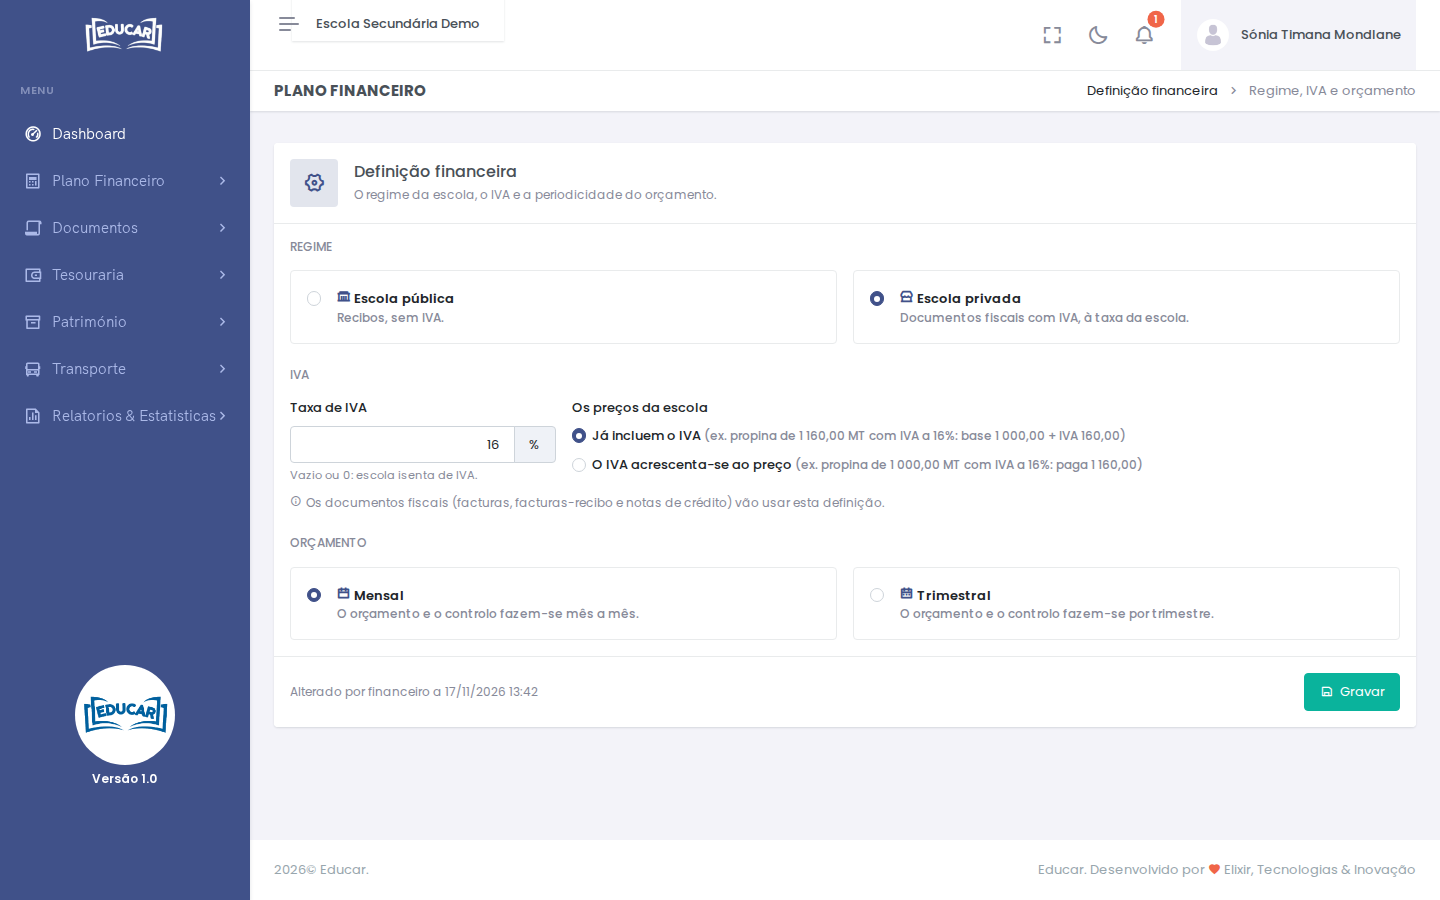
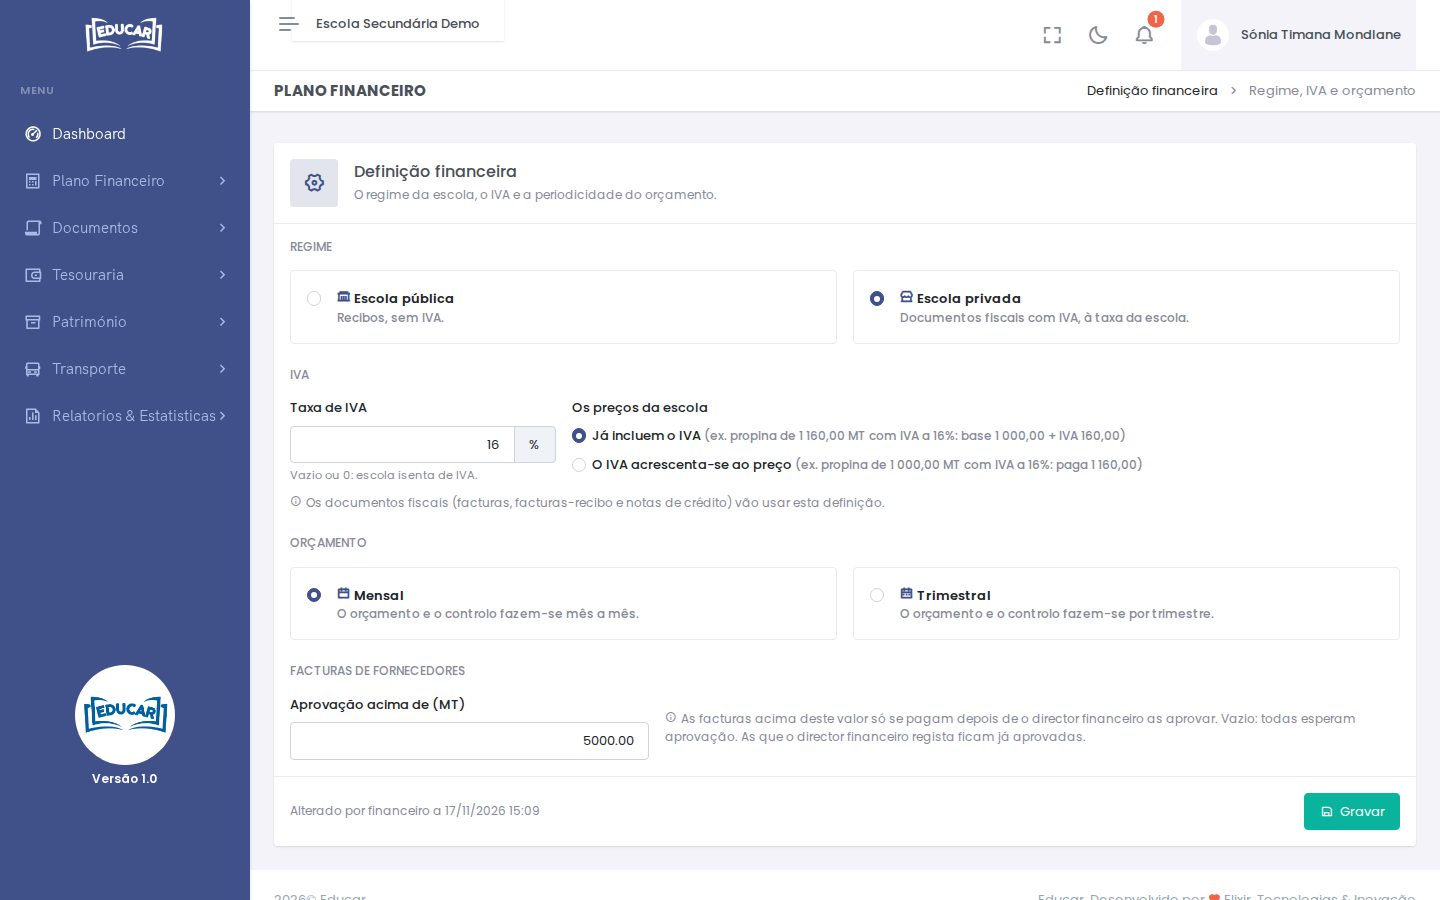
Tesouraria: Contas a pagar (facturas de fornecedores, aprovação, pagamentos parciais)

diff --git a/docs/menus/tesouraria/contas-a-pagar.md b/docs/menus/tesouraria/contas-a-pagar.md
@@ -1,0 +1,70 @@
+# Contas a pagar
+
+**Menu:** Tesouraria › Contas a pagar
+**Quem vê:** Director financeiro, Funcionário das finanças
+
+As facturas dos fornecedores: o que a escola deve, a quem e quando vence. As finanças registam a factura quando chega; o director financeiro aprova as que passam do limite; depois paga-se de uma vez ou em parte. Cada pagamento sai do saldo da conta e entra em [Receitas e Despesas](receitas-e-despesas.md).
+
+![Contas a pagar da escola](img/contas-a-pagar.png)
+
+## O topo da lista
+
+- **Por aprovar:** as facturas à espera do director financeiro.
+- **Em dívida:** o que falta pagar das facturas aprovadas.
+- **Vencidas:** as aprovadas por pagar cujo vencimento já passou.
+- **A vencer em 7 dias:** as aprovadas que vencem na próxima semana.
+
+Cada cartão abre a lista correspondente. Os separadores **Em aberto**, **Por aprovar**, **Vencidas**, **Pagas** e **Todas** mudam a lista; procure pelo fornecedor, pelo número da factura ou pela descrição, ou escolha um fornecedor. Clique numa factura para abrir a ficha.
+
+## Registar uma factura
+
+![Nova factura de fornecedor](img/factura-nova.png)
+
+1. Use **Nova factura**.
+2. Escolha o **Fornecedor**. Se ainda não existe, registe-o em [Fornecedores](fornecedores.md).
+3. Escreva o **Nº da factura do fornecedor**, a **Data da factura** e o **Vencimento**. Sem vencimento, a factura vence na data da factura.
+4. Escreva a **Descrição**: o que se comprou.
+5. Escolha o **Tipo de despesa** e, se quiser, o **Centro de custo**. A rubrica vem do tipo de despesa, como está em [Centros de custo e rubricas](../plano-financeiro/centros-de-custo-e-rubricas.md#rubrica-de-cada-servico).
+6. Escreva o **Total da factura (MT)** e, se a factura o mostra, quanto é **IVA**.
+7. Use **Registar a factura**.
+
+A mesma factura do mesmo fornecedor não se regista duas vezes.
+
+## Aprovação
+
+Na [Definição financeira](../plano-financeiro/definicao-financeira.md#facturas-de-fornecedores), o director financeiro diz a partir de que valor uma factura precisa da sua aprovação:
+
+- uma factura até ao limite fica logo aprovada;
+- uma factura acima do limite fica **Por aprovar**, e o director financeiro recebe um aviso no sino;
+- uma factura registada pelo próprio director financeiro fica logo aprovada.
+
+Sem limite, todas as facturas registadas pelo funcionário das finanças esperam aprovação.
+
+![Uma factura à espera de aprovação](img/factura-por-aprovar.png)
+
+O director financeiro abre a factura e usa **Aprovar**, ou **Recusar** com o motivo. Em ambos os casos, as finanças recebem um aviso. Uma factura recusada não se paga.
+
+## Pagar
+
+Na ficha de uma factura aprovada:
+
+1. Escolha a **Conta de onde sai** o dinheiro e o **Meio de pagamento**.
+2. O **Valor** vem com o que falta pagar. Para pagar só uma parte, escreva um valor menor.
+3. Se quiser, escreva a **Referência**, por exemplo o número do cheque ou da transferência.
+4. Use **Confirmar o pagamento**.
+
+![Uma factura paga em parte](img/factura-paga-em-parte.png)
+
+Com um pagamento parcial, a factura fica **Paga em parte** e continua na dívida até ao fim. Paga por inteiro, fica **Paga**. Os pagamentos e o **Histórico** ficam na ficha: quem registou, quem aprovou, quem pagou e quando. Por baixo da factura aparece onde se paga ao fornecedor (banco, NIB, carteira).
+
+## Vencimentos
+
+As finanças recebem um aviso no sino três dias antes do vencimento de uma factura aprovada por pagar, e outro quando ela vence. Cada aviso segue uma vez.
+
+## Anular
+
+Uma factura em aberto e sem pagamentos anula-se na ficha, com **Anular a factura** e o motivo (por exemplo, registada em duplicado). Fica **Anulada** e deixa de contar na dívida.
+
+## Facturas de despesas do património
+
+Quando o fornecedor de uma compra ou reparação do património manda factura para pagar mais tarde, use **Registar a factura** em [Despesas do Património](despesas-do-patrimonio.md). A factura vem preenchida com a descrição e o valor e, se o nome escrito pelo gestor for o de um fornecedor da escola, com o fornecedor. A despesa passa a mostrar **Em contas a pagar**; paga a factura, fica paga lá também. Se a factura for anulada, a despesa volta a ficar por pagar.

diff --git a/docs/menus/tesouraria/despesas-do-patrimonio.md b/docs/menus/tesouraria/despesas-do-patrimonio.md
@@ -24,6 +24,10 @@ As finanças recebem um aviso no sino com cada despesa nova.
 
 A despesa entra em [Receitas e Despesas](receitas-e-despesas.md), com a descrição da compra ou da reparação e o fornecedor, e sai do saldo da conta. Na ficha do bem, o quadro **Tesouraria** passa a mostrar a despesa como **Paga**, com quem a pagou e quando.
 
+## Pagar mais tarde: a factura
+
+Se o fornecedor mandou factura para pagar mais tarde ou em parte, use **Registar a factura**: abre uma [factura nova em Contas a pagar](contas-a-pagar.md#facturas-de-despesas-do-patrimonio) com a descrição e o valor da despesa. A despesa passa a mostrar **Em contas a pagar** e paga-se lá; paga a factura, fica paga aqui também.
+
 ## Dispensar
 
 Use **Dispensar** quando a despesa não se paga pela Tesouraria, por exemplo porque já foi paga antes ou foi paga por outra entidade. Escreva o motivo e use **Dispensar a despesa**. O saldo não muda.

diff --git a/docs/menus/tesouraria/index.md b/docs/menus/tesouraria/index.md
@@ -6,6 +6,7 @@
 | [Venda ao Balcão](venda-ao-balcao.md) | Director financeiro, Funcionário das finanças |
 | [Cobranças a Alunos](cobrancas-a-alunos.md) | Director financeiro, Funcionário das finanças |
 | [Receitas e Despesas](receitas-e-despesas.md) | Director financeiro, Funcionário das finanças |
+| [Contas a pagar](contas-a-pagar.md) | Director financeiro, Funcionário das finanças |
 | [Despesas do Património](despesas-do-patrimonio.md) | Director financeiro, Funcionário das finanças |
 | [Acertos do transporte](acertos-do-transporte.md) | Director financeiro, Funcionário das finanças |
 | [Fornecedores](fornecedores.md) | Director financeiro, Funcionário das finanças |

diff --git a/docs/perfis/financas.md b/docs/perfis/financas.md
@@ -22,6 +22,7 @@ Define os preços e as taxas, recebe pagamentos, regista vendas e receitas e aco
 | Tesouraria | [Venda ao Balcão](../menus/tesouraria/venda-ao-balcao.md) |
 | Tesouraria | [Cobranças a Alunos](../menus/tesouraria/cobrancas-a-alunos.md) |
 | Tesouraria | [Receitas e Despesas](../menus/tesouraria/receitas-e-despesas.md) |
+| Tesouraria | [Contas a pagar](../menus/tesouraria/contas-a-pagar.md) |
 | Tesouraria | [Despesas do Património](../menus/tesouraria/despesas-do-patrimonio.md) |
 | Tesouraria | [Acertos do transporte](../menus/tesouraria/acertos-do-transporte.md) |
 | Tesouraria | [Fornecedores](../menus/tesouraria/fornecedores.md) |

diff --git a/docs/menus/tesouraria/fornecedores.md b/docs/menus/tesouraria/fornecedores.md
@@ -17,6 +17,10 @@ As empresas e as pessoas a quem a escola compra: o NUIT, os contactos e onde se 
 
 O mesmo NUIT não se repete na escola. Para corrigir os dados, use **Alterar**.
 
+## O que se deve
+
+A coluna **Em dívida (MT)** mostra o que falta pagar das facturas aprovadas de cada fornecedor. **Facturas** abre as [contas a pagar](contas-a-pagar.md) desse fornecedor.
+
 ## Procurar e desactivar
 
 Procure pelo nome, pelo NUIT ou pela categoria. Um fornecedor com quem a escola deixou de trabalhar não se apaga: use **Desactivar**. Deixa de aparecer nas escolhas, mas o histórico fica. **Mostrar os desactivados** volta a mostrá-los, com **Activar**.

diff --git a/docs/menus/plano-financeiro/definicao-financeira.md b/docs/menus/plano-financeiro/definicao-financeira.md
@@ -25,4 +25,8 @@ Os documentos fiscais (facturas, facturas-recibo e notas de crédito) vão usar 
 
 Escolha se o orçamento da escola se faz e se controla mês a mês (**Mensal**) ou por trimestre (**Trimestral**).
 
+## Facturas de fornecedores
+
+Em **Aprovação acima de (MT)**, escreva a partir de que valor uma factura de fornecedor só se paga depois de o director financeiro a aprovar. Vazio, todas esperam aprovação; as que o director financeiro regista ficam já aprovadas. Ver [Contas a pagar](../tesouraria/contas-a-pagar.md#aprovacao).
+
 Use **Gravar**. Por baixo fica quem fez a última alteração, e quando.
